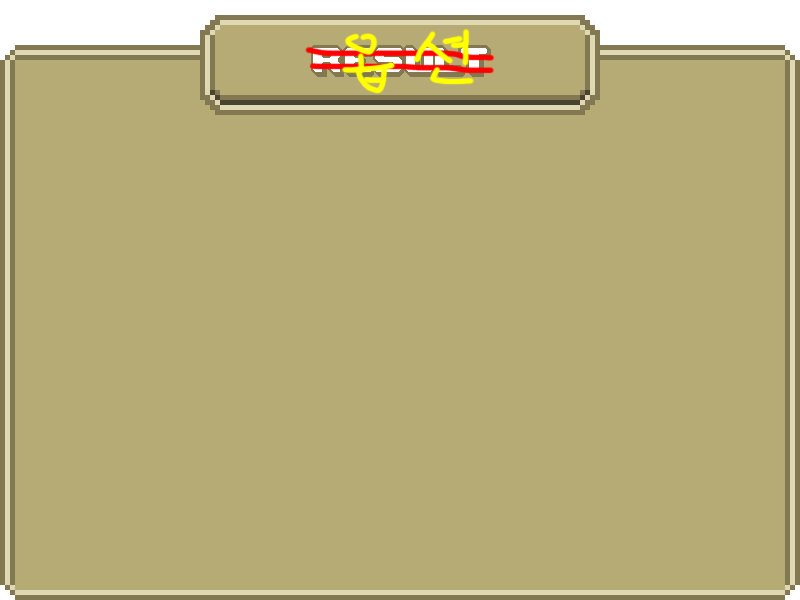
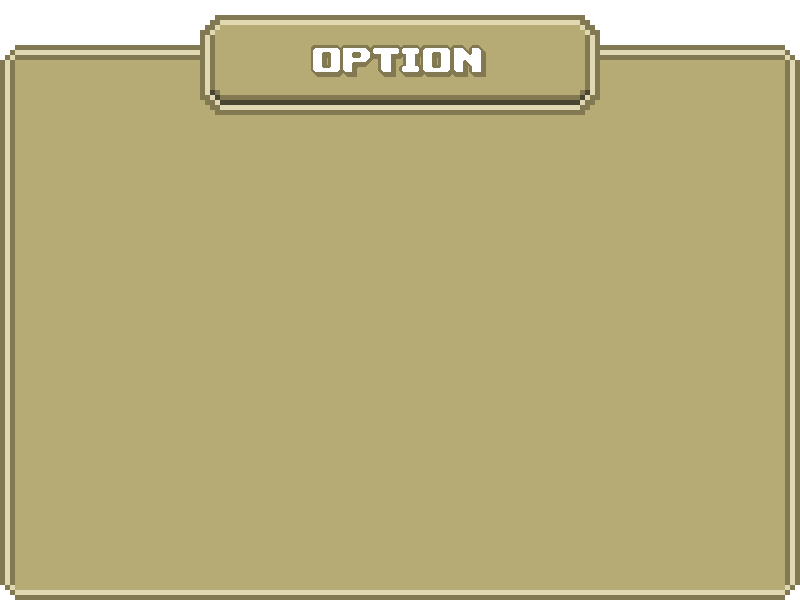
plist 반영 완료, 일부 리소스 수정 ( option 창 )

Changed region(s): [[0.375, 0.06, 0.625, 0.15]]

diff --git a/Cocos_practice/Classes/definition.h b/Cocos_practice/Classes/definition.h
@@ -107,7 +107,6 @@ enum EventType
 
 //UI IMAGE
 #define FILENAME_IMG_UI_GRAIN_INDICATOR "grain_bar.png"
-#define FILENAME_IMG_UI_OPTION_BUTTON "option_button.png"
 #define FILENAME_IMG_UI_OPTION_WINDOW "option_window.png"
 #define FILENAME_IMG_UI_OUTER_ANCHOR "point.png"
 #define FILENAME_IMG_UI_OUTER_BAR "bar.png"
@@ -115,13 +114,19 @@ enum EventType
 #define FILENAME_IMG_UI_FLAG_RED "flag_red.png"
 #define FILENAME_IMG_UI_FLAG_BLUE "flag_blue.png"
 
+#define FILENAME_IMG_UI_RESULT_WINDOW "end_game.png"
+
 //UI_BUTTON
+#define FILENAME_IMG_BUTTON_REPLAY "replay.png"
+#define FILENAME_IMG_BUTTON_REPLAY_CLICKED "replay_clicked.png"
 #define FILENAME_IMG_BUTTON_ENDTURN "end_turn.png"
 #define FILENAME_IMG_BUTTON_ENDTURN_CLICKED "end_turn_clicked.png"
 #define FILENAME_IMG_BUTTON_TURN_RIGHT "turn_left.png"
 #define FILENAME_IMG_BUTTON_TURN_RIGHT_CLICKED "turn_left_clicked.png"
 #define FILENAME_IMG_BUTTON_TURN_LEFT "turn_right.png"
 #define FILENAME_IMG_BUTTON_TURN_LEFT_CLICKED "turn_right_clicked.png"
+#define FILENAME_IMG_BUTTON_OPTION_BUTTON "option_button.png"
+#define FILENAME_IMG_BUTTON_OPTION_BUTTON_CLICKED "option_button_clicked.png"
 
 //FONT
 #define FILENAME_FONT_MAINMENU "fonts/Marker Felt.ttf"

diff --git a/Cocos_practice/Classes/UILayer.cpp b/Cocos_practice/Classes/UILayer.cpp
@@ -40,8 +40,9 @@ bool UILayer::init()
 	MenuItemSprite* toggleTurn = MenuItemSprite::create(endButton, endButtonClicked, CC_CALLBACK_1(GameSceneManager::ToggleTurn, GameSceneManager::getInstance()));
 	toggleTurn->setPosition(Vec2(visibleSize.width * 1 / 2, visibleSize.height - 50));
 
-	Sprite* replayButton = Sprite::createWithSpriteFrameName(FILENAME_IMG_UI_OPTION_BUTTON);
-	MenuItemSprite* replaybtn = MenuItemSprite::create(replayButton, replayButton, CC_CALLBACK_0(UILayer::ReturnToMenu, this));
+	Sprite* menuButton = Sprite::createWithSpriteFrameName(FILENAME_IMG_BUTTON_OPTION_BUTTON);
+	Sprite* menuButtonClicked = Sprite::createWithSpriteFrameName(FILENAME_IMG_BUTTON_OPTION_BUTTON_CLICKED);
+	MenuItemSprite* replaybtn = MenuItemSprite::create(menuButton, menuButtonClicked, CC_CALLBACK_0(UILayer::ReturnToMenu, this));
 	replaybtn->setPosition(Vec2(visibleSize.width - 100, visibleSize.height - 36));
 
 	Menu* mainMenu = Menu::create(toggleTurn, replaybtn, NULL);

diff --git a/Cocos_practice/Classes/OptionLayer.cpp b/Cocos_practice/Classes/OptionLayer.cpp
@@ -26,9 +26,9 @@ bool OptionLayer::init()
 	BackLayer->setPosition(Vec2(0, 0));
 	this->addChild(BackLayer);
 
-	Sprite* resultPage = Sprite::createWithSpriteFrameName("end_game.png");
-	Sprite* replayButton = Sprite::createWithSpriteFrameName("replay.png");
-	Sprite* replayButtonClicked = Sprite::createWithSpriteFrameName("replay_clicked.png");
+	Sprite* resultPage = Sprite::createWithSpriteFrameName(FILENAME_IMG_UI_OPTION_WINDOW);
+	Sprite* replayButton = Sprite::createWithSpriteFrameName(FILENAME_IMG_BUTTON_REPLAY);
+	Sprite* replayButtonClicked = Sprite::createWithSpriteFrameName(FILENAME_IMG_BUTTON_REPLAY_CLICKED);
 
 	MenuItemSprite* replaybtn = MenuItemSprite::create(replayButton, replayButtonClicked, CC_CALLBACK_0(OptionLayer::ReturnToMenu, this));
 	replaybtn->setPosition(Vec2(visibleSize.width * 1 / 2, visibleSize.height * 3/5 ));

diff --git a/Cocos_practice/Classes/ResultLayer.cpp b/Cocos_practice/Classes/ResultLayer.cpp
@@ -26,9 +26,9 @@ bool ResultLayer::init()
 	BackLayer->setPosition(Vec2(0, 0));
 	this->addChild(BackLayer);
 
-	Sprite* resultPage = Sprite::createWithSpriteFrameName("end_game.png");
-	Sprite* replayButton = Sprite::createWithSpriteFrameName("replay.png");
-	Sprite* replayButtonClicked = Sprite::createWithSpriteFrameName("replay_clicked.png");
+	Sprite* resultPage = Sprite::createWithSpriteFrameName(FILENAME_IMG_UI_RESULT_WINDOW);
+	Sprite* replayButton = Sprite::createWithSpriteFrameName(FILENAME_IMG_BUTTON_REPLAY);
+	Sprite* replayButtonClicked = Sprite::createWithSpriteFrameName(FILENAME_IMG_BUTTON_REPLAY_CLICKED);
 
 	MenuItemSprite* replaybtn = MenuItemSprite::create(replayButton, replayButtonClicked, CC_CALLBACK_0(ResultLayer::ReturnToMenu, this));
 	replaybtn->setPosition(Vec2(visibleSize.width * 1 / 2, visibleSize.height* 2/5 ));
